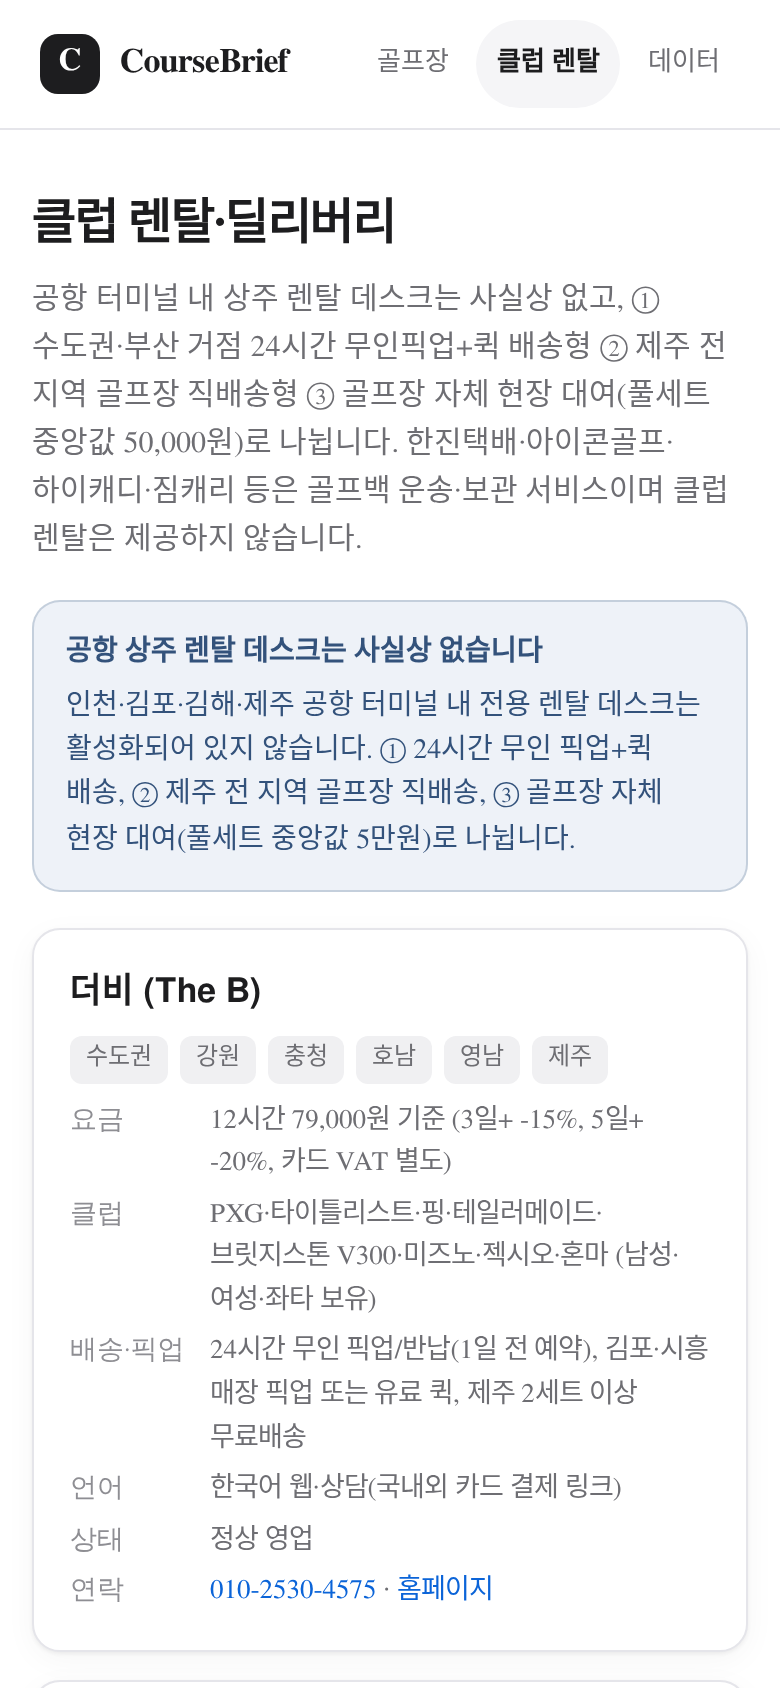
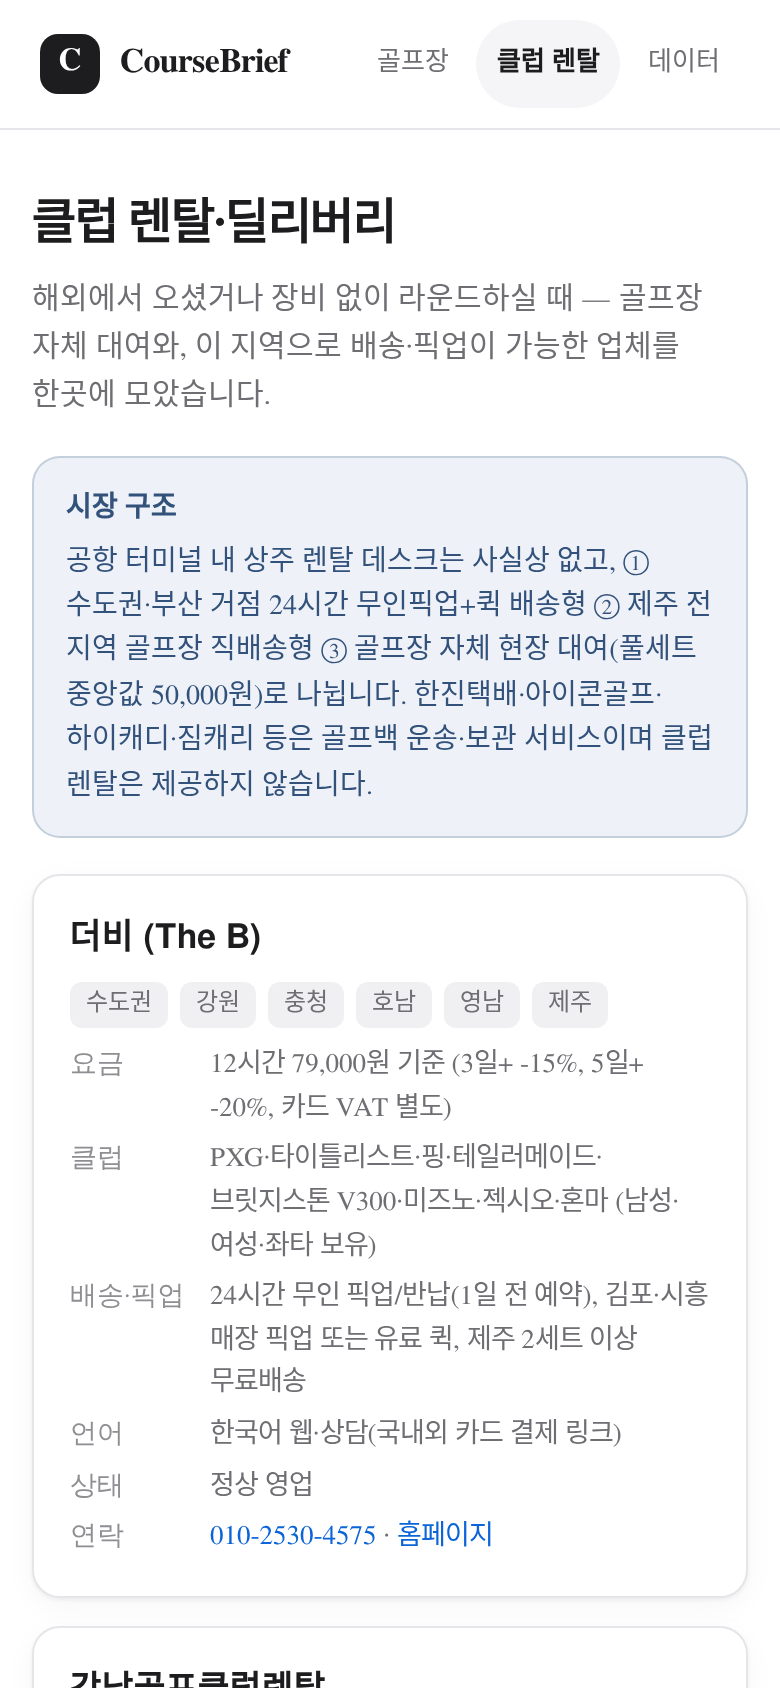
fix(web): 한글 줄바꿈(keep-all)·공식 요금표 접기·렌탈 페이지 문구 중복 정리
- 상세 요금 섹션: 공식 요금표를 구분별로 묶어 표시하고, 항목이 많으면 접어 둔다
- 본문 word-break: keep-all 로 한글 단어 중간 줄바꿈 방지
- 렌탈 페이지 안내 문구 중복 제거, 빈틈 항목 라벨 정리
- 데이터/스키마/README 는 변경 없음

diff --git a/web/assets/app.js b/web/assets/app.js
@@ -509,11 +509,30 @@ function sections(d, c) {
   const feeNote = (fee.basis ? `<span class="sub">${esc(fee.basis)}</span>` : "");
   const asOf = fee.as_of || fee.checked_at;
   const member = fee.member;
-  const tableRows = (fee.official_table?.rows || []).slice(0, 24);
-  const tableHTML = tableRows.length ? `<div class="table-wrap"><table>
-      <thead><tr><th>구분</th><th>항목</th><th>금액</th></tr></thead><tbody>
-      ${tableRows.map((r) => `<tr><td>${esc(r.section || "")}</td><td>${esc(r.label || "")}</td><td>${esc(r.value || "")}</td></tr>`).join("")}
-      </tbody></table></div>` : "";
+  const tableHTML = (() => {
+    const rows = (fee.official_table?.rows || []).filter((r) => r && (r.value || r.amounts?.length));
+    if (!rows.length) return "";
+    const groups = [];
+    for (const r of rows) {
+      const sec = (r.section || "요금").trim();
+      let g = groups.find((x) => x.sec === sec);
+      if (!g) { g = { sec, rows: [] }; groups.push(g); }
+      const key = `${r.label || ""}|${r.value || ""}`;
+      if (!g.rows.some((x) => `${x.label || ""}|${x.value || ""}` === key)) g.rows.push(r);
+    }
+    const groupHTML = (g) => `<tr class="group"><th colspan="2">${esc(g.sec === "구분" ? "요금" : g.sec)}</th></tr>` +
+      g.rows.map((r) => {
+        const label = r.label && r.label !== g.sec ? r.label : "";
+        return `<tr><td>${esc(label)}</td><td class="num">${esc(r.value || "")}</td></tr>`;
+      }).join("");
+    const body = groups.map(groupHTML).join("");
+    const table = `<div class="table-wrap"><table class="fee-table"><tbody>${body}</tbody></table></div>`;
+    // 행이 많으면 기본은 접어 둔다(요금 섹션이 표에 잠식되지 않게)
+    if (groups.length > 2 || rows.length > 8) {
+      return `<details class="ev"><summary>공식 요금표 ${rows.length}개 항목 펼치기</summary>${table}</details>`;
+    }
+    return table;
+  })();
   const od = fee.official_detail || {};
   const s3 = `
   <section class="section" id="s3">

diff --git a/web/assets/style.css b/web/assets/style.css
@@ -339,3 +339,12 @@ code { font-family: ui-monospace, SFMono-Regular, Menlo, monospace; font-size: .
   .detail-facts { gap: 4px; }
   .fee-grid { grid-template-columns: repeat(2, 1fr); }
 }
+
+/* 공식 요금표 */
+.fee-table tr.group th {
+  background: var(--bg-subtle); font-size: 12px; color: var(--text-2);
+  letter-spacing: .01em; padding-top: 10px;
+}
+.fee-table td.num { font-variant-numeric: tabular-nums; white-space: nowrap; text-align: right; }
+.fee-table td { font-size: 13.5px; }
+.fee-table td:first-child { color: var(--text-2); }
